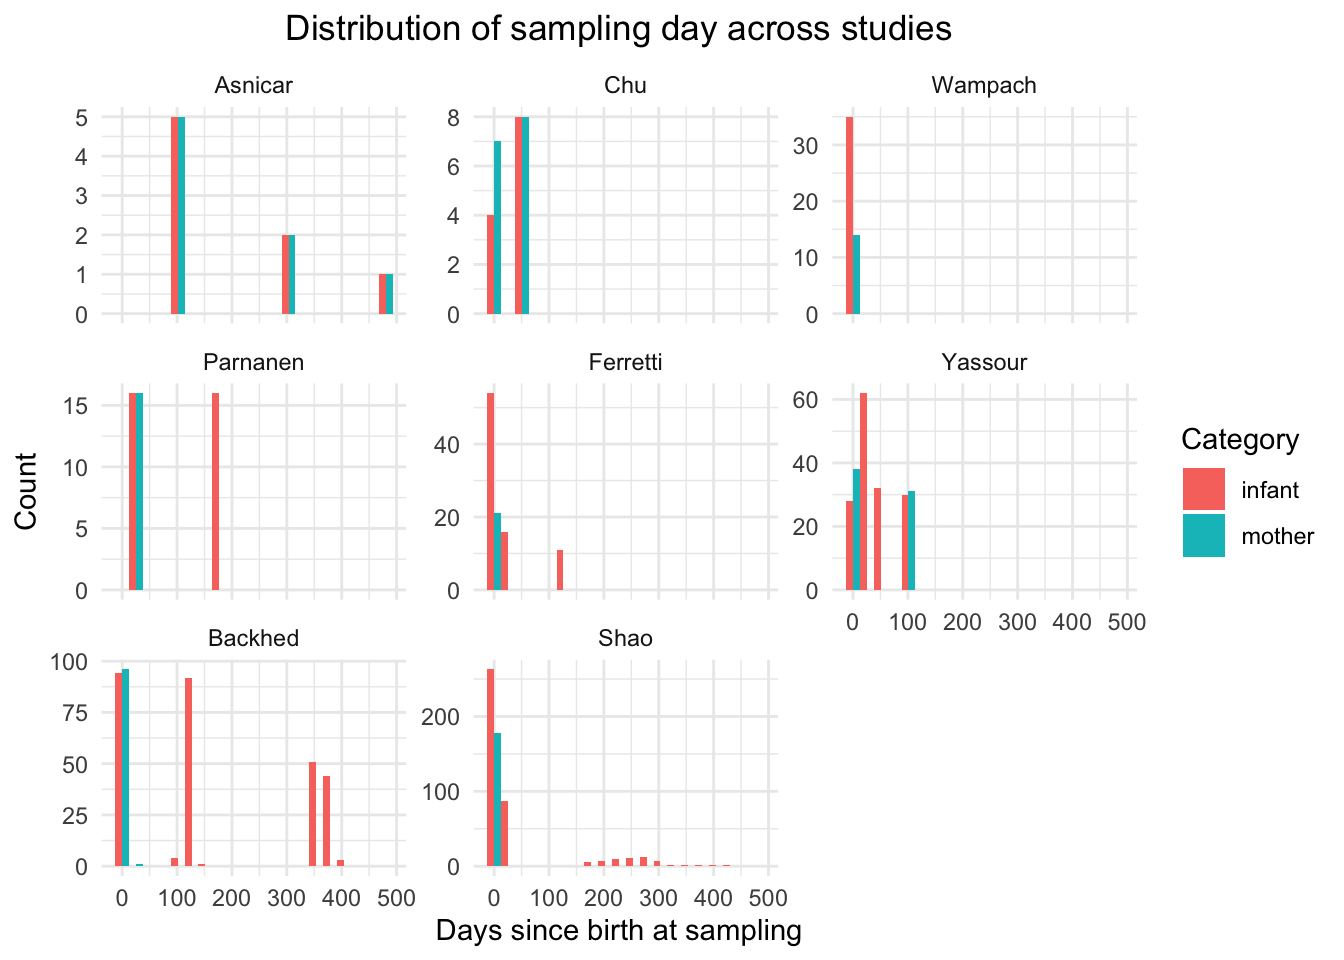
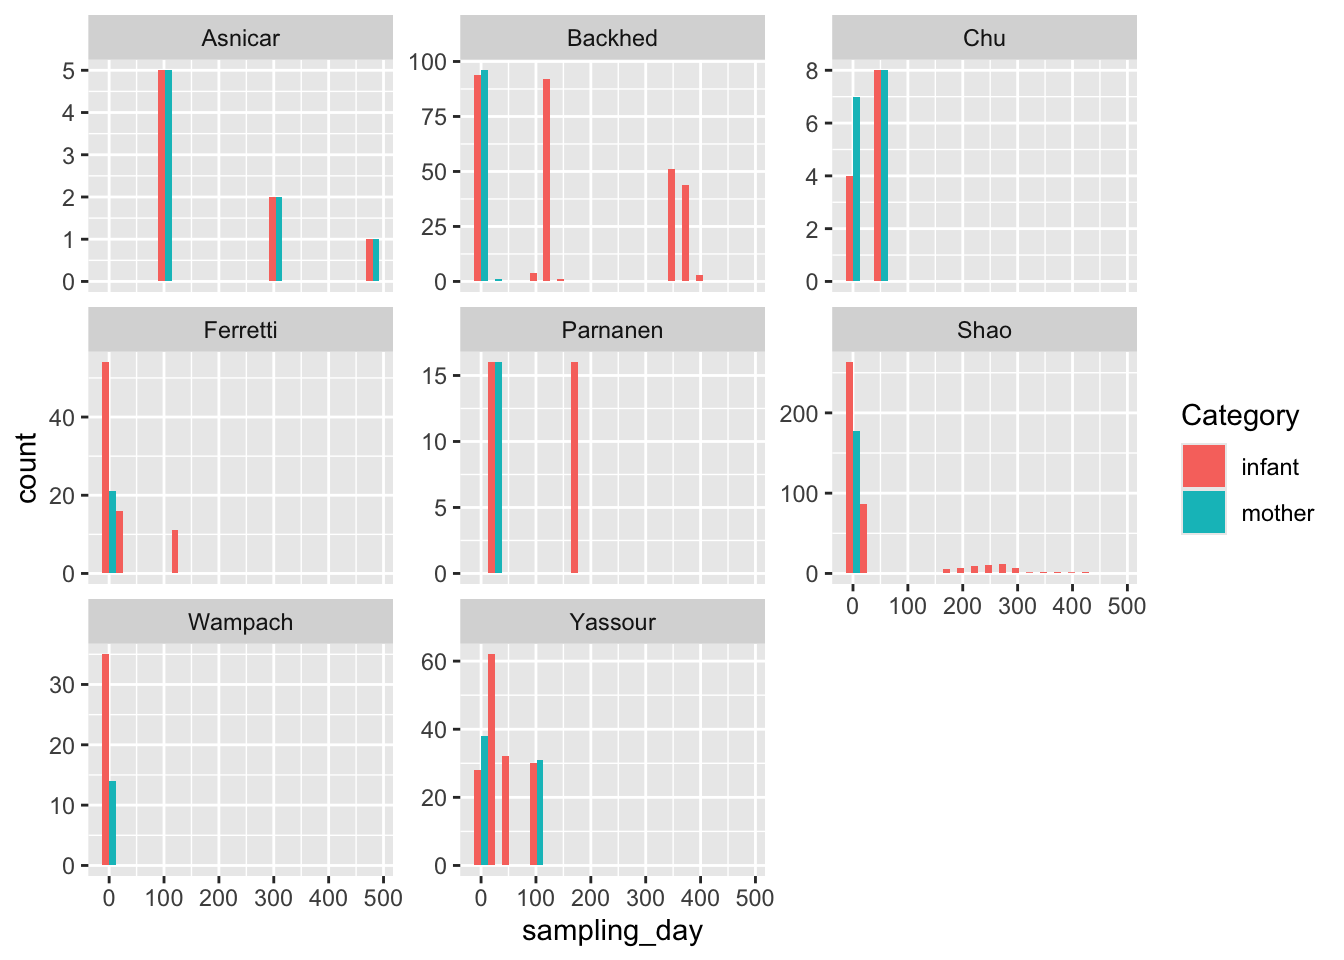
small updates to intro git and github

diff --git a/docs/index.html b/docs/index.html
@@ -194,6 +194,7 @@ gtag('config', 'G-DPKD3JXYG6', { 'anonymize_ip': true});
   <li><a href="#git" id="toc-git" class="nav-link" data-scroll-target="#git">Git</a></li>
   <li><a href="#branches" id="toc-branches" class="nav-link" data-scroll-target="#branches">Branches</a></li>
   <li><a href="#github" id="toc-github" class="nav-link" data-scroll-target="#github">GitHub</a></li>
+  <li><a href="#creating-new-repositories" id="toc-creating-new-repositories" class="nav-link" data-scroll-target="#creating-new-repositories">Creating new repositories</a></li>
   </ul></li>
   <li><a href="#getting-started-with-git-and-github" id="toc-getting-started-with-git-and-github" class="nav-link" data-scroll-target="#getting-started-with-git-and-github">Getting started with Git and GitHub</a>
   <ul class="collapse">
@@ -206,7 +207,7 @@ gtag('config', 'G-DPKD3JXYG6', { 'anonymize_ip': true});
   <li><a href="#what-youve-done" id="toc-what-youve-done" class="nav-link" data-scroll-target="#what-youve-done">What you’ve done</a></li>
   <li><a href="#tips" id="toc-tips" class="nav-link" data-scroll-target="#tips">Tips</a></li>
   </ul></li>
-  <li><a href="#create-github-repository-for-your-project" id="toc-create-github-repository-for-your-project" class="nav-link" data-scroll-target="#create-github-repository-for-your-project">Create GitHub repository for your project</a>
+  <li><a href="#create-version-controlled-repository-for-your-project" id="toc-create-version-controlled-repository-for-your-project" class="nav-link" data-scroll-target="#create-version-controlled-repository-for-your-project">Create version controlled repository for your project</a>
   <ul class="collapse">
   <li><a href="#open-this-project-in-rstudio" id="toc-open-this-project-in-rstudio" class="nav-link" data-scroll-target="#open-this-project-in-rstudio">Open this project in RStudio</a></li>
   </ul></li>
@@ -364,6 +365,15 @@ Images or videos may be helpful so this includes an example of including an imag
 <h1><strong>Motivation</strong></h1>
 <hr>
 <p>In this case study, we ask you to imagine that you are working with a collaborator on a scientific project. You receive the following email, with a request for your help tracking the project using version control and performing a preliminary data analysis. Don’t worry if some of these terms don’t make sense right now, each will be explained later on in the case study.</p>
+<div class="cell">
+<div class="cell-output-display">
+<div>
+<figure class="figure">
+<p><img src="index_files/figure-html//1TEi1D35oiiC21mYR0cKjWuOOpuxm3fTGyCXSqFmjL3I_g3d9461be06f_0_0.png" class="img-fluid figure-img" style="width:100.0%" alt="Motivation email asking for cohort comparison analysis"></p>
+</figure>
+</div>
+</div>
+</div>
 <p><a href="img/version_control_email.png" class="lightbox" data-gallery="quarto-lightbox-gallery-2"><img src="img/version_control_email.png" class="img-fluid" alt="Workflow of the different version control steps in this case study" width="800"></a></p>
 <p>In this case study, you will learn how to use Git and GitHub to track this project and perform the requested comparison of studies used in the meta-analysis. You will also learn how version control can be used to improve reproducibility of a scientific project and how it can make collaboration easier.</p>
 <div class="definition_box">
@@ -549,6 +559,10 @@ Introduction to Git and GitHub (similar to "Dashboard Basics" section in school 
 <li>You have a central location where your data and code are stored for a project that can be shared with other scientists</li>
 </ul>
 </section>
+<section id="creating-new-repositories" class="level3">
+<h3 class="anchored" data-anchor-id="creating-new-repositories">Creating new repositories</h3>
+<p>There are two ways to start new version controlled projects with Git and GitHub. You could create a new repository locally on your computer, track it with Git, and then “push” it to GitHub, creating a remote version of the repo. Or, you could create a new remote repository on GitHub and then “clone” it to your computer, creating a local version. We will provide examples of both workflows in the next section.</p>
+</section>
 </section>
 <section id="getting-started-with-git-and-github" class="level2">
 <h2 class="anchored" data-anchor-id="getting-started-with-git-and-github">Getting started with Git and GitHub</h2>
@@ -634,8 +648,8 @@ Introduction to Git and GitHub (similar to "Dashboard Basics" section in school 
 </ul>
 </section>
 </section>
-<section id="create-github-repository-for-your-project" class="level2">
-<h2 class="anchored" data-anchor-id="create-github-repository-for-your-project">Create GitHub repository for your project</h2>
+<section id="create-version-controlled-repository-for-your-project" class="level2">
+<h2 class="anchored" data-anchor-id="create-version-controlled-repository-for-your-project">Create version controlled repository for your project</h2>
 <p>Now, we will return to the project with Collab. O. Rator. In the previous section, we created a repository on GitHub, and then cloned to make a local copy. Here, we will start with a local folder, track it with Git, and then create a remote version on GitHub.</p>
 <p>First, download the .zip file <a href="https://github.com/opencasestudies/mother-infant-gut-microbiome-analysis-sandbox/raw/refs/heads/main/infant_gut_files.zip">here</a>. Your browser may automatically unzip this file to create a folder called “infant_gut_files”, if not then unzip the file.</p>
 <p>Now, go to GitHub Desktop. Click the button “Add” in the top right, and “Create New Repository”. Give your repository the name “infant_gut_analysis”. Leave the box “Initialize this repository with a README” unchecked (because a README is already included in the set of files). Under Git Ignore choose “R” and under License choose “MIT License”.</p>
@@ -997,7 +1011,7 @@ At the end of this section, save incremental data so that users can pause and co
 <div class="cell-output-display">
 <div>
 <figure class="figure">
-<p><img src="index_files/figure-html/unnamed-chunk-6-1.png" class="img-fluid figure-img" width="672"></p>
+<p><img src="index_files/figure-html/unnamed-chunk-7-1.png" class="img-fluid figure-img" width="672"></p>
 </figure>
 </div>
 </div>
@@ -1021,7 +1035,7 @@ At the end of this section, save incremental data so that users can pause and co
 <div class="cell-output-display">
 <div>
 <figure class="figure">
-<p><img src="index_files/figure-html/unnamed-chunk-7-1.png" class="img-fluid figure-img" width="672"></p>
+<p><img src="index_files/figure-html/unnamed-chunk-8-1.png" class="img-fluid figure-img" width="672"></p>
 </figure>
 </div>
 </div>
@@ -1044,7 +1058,7 @@ At the end of this section, save incremental data so that users can pause and co
 <div class="cell-output-display">
 <div>
 <figure class="figure">
-<p><img src="index_files/figure-html/unnamed-chunk-9-1.png" class="img-fluid figure-img" width="672"></p>
+<p><img src="index_files/figure-html/unnamed-chunk-10-1.png" class="img-fluid figure-img" width="672"></p>
 </figure>
 </div>
 </div>
@@ -1069,7 +1083,7 @@ At the end of this section, save incremental data so that users can pause and co
 <div class="cell-output-display">
 <div>
 <figure class="figure">
-<p><img src="index_files/figure-html/unnamed-chunk-10-1.png" class="img-fluid figure-img" width="672"></p>
+<p><img src="index_files/figure-html/unnamed-chunk-11-1.png" class="img-fluid figure-img" width="672"></p>
 </figure>
 </div>
 </div>
@@ -1262,7 +1276,7 @@ Automatically include the packages table from _packages.qmd?
  collate  en_US.UTF-8
  ctype    en_US.UTF-8
  tz       America/Los_Angeles
- date     2026-04-24
+ date     2026-04-27
  pandoc   3.6.3 @ /Applications/RStudio.app/Contents/Resources/app/quarto/bin/tools/aarch64/ (via rmarkdown)
  quarto   1.8.25 @ /Applications/RStudio.app/Contents/Resources/app/quarto/bin/quarto
 
@@ -1270,7 +1284,9 @@ Automatically include the packages table from _packages.qmd?
  package      * version date (UTC) lib source
  cachem         1.1.0   2024-05-16 [1] CRAN (R 4.5.0)
  cellranger     1.1.0   2016-07-27 [1] CRAN (R 4.5.0)
+ chromote       0.5.1   2025-04-24 [1] CRAN (R 4.5.0)
  cli            3.6.5   2025-04-23 [1] CRAN (R 4.5.0)
+ curl           7.0.0   2025-08-19 [1] CRAN (R 4.5.0)
  devtools       2.4.6   2025-10-03 [1] CRAN (R 4.5.0)
  digest         0.6.39  2025-11-19 [1] CRAN (R 4.5.2)
  dplyr        * 1.2.0   2026-02-03 [1] CRAN (R 4.5.2)
@@ -1281,43 +1297,60 @@ Automatically include the packages table from _packages.qmd?
  fs             1.6.7   2026-03-06 [1] CRAN (R 4.5.2)
  generics       0.1.4   2025-05-09 [1] CRAN (R 4.5.0)
  ggplot2      * 4.0.2   2026-02-03 [1] CRAN (R 4.5.2)
+ gitcreds       0.1.2   2022-09-08 [1] CRAN (R 4.5.0)
  glue           1.8.0   2024-09-30 [1] CRAN (R 4.5.0)
  gtable         0.3.6   2024-10-25 [1] CRAN (R 4.5.0)
  here         * 1.0.2   2025-09-15 [1] CRAN (R 4.5.0)
+ hms            1.1.4   2025-10-17 [1] CRAN (R 4.5.0)
  htmltools      0.5.9   2025-12-04 [1] CRAN (R 4.5.2)
  htmlwidgets    1.6.4   2023-12-06 [1] CRAN (R 4.5.0)
+ httr           1.4.8   2026-02-13 [1] CRAN (R 4.5.2)
  jsonlite       2.0.0   2025-03-27 [1] CRAN (R 4.5.0)
  knitr          1.51    2025-12-20 [1] CRAN (R 4.5.2)
  labeling       0.4.3   2023-08-29 [1] CRAN (R 4.5.0)
+ later          1.4.8   2026-03-05 [1] CRAN (R 4.5.2)
  lifecycle      1.0.5   2026-01-08 [1] CRAN (R 4.5.2)
  magrittr       2.0.4   2025-09-12 [1] CRAN (R 4.5.0)
  memoise        2.0.1   2021-11-26 [1] CRAN (R 4.5.0)
  otel           0.2.0   2025-08-29 [1] CRAN (R 4.5.0)
+ ottrpal        2.0.0   2025-03-31 [1] CRAN (R 4.5.0)
  pillar         1.11.1  2025-09-17 [1] CRAN (R 4.5.0)
  pkgbuild       1.4.8   2025-05-26 [1] CRAN (R 4.5.0)
  pkgconfig      2.0.3   2019-09-22 [1] CRAN (R 4.5.0)
  pkgload        1.5.0   2026-02-03 [1] CRAN (R 4.5.2)
+ processx       3.8.6   2025-02-21 [1] CRAN (R 4.5.0)
+ promises       1.5.0   2025-11-01 [1] CRAN (R 4.5.0)
+ ps             1.9.1   2025-04-12 [1] CRAN (R 4.5.0)
  purrr          1.2.1   2026-01-09 [1] CRAN (R 4.5.2)
  R6             2.6.1   2025-02-15 [1] CRAN (R 4.5.0)
  RColorBrewer   1.1-3   2022-04-03 [1] CRAN (R 4.5.0)
+ Rcpp           1.1.1   2026-01-10 [1] CRAN (R 4.5.2)
+ readr          2.2.0   2026-02-19 [1] CRAN (R 4.5.2)
  readxl       * 1.4.5   2025-03-07 [1] CRAN (R 4.5.0)
  remotes        2.5.0   2024-03-17 [1] CRAN (R 4.5.0)
  rlang          1.1.7   2026-01-09 [1] CRAN (R 4.5.2)
  rmarkdown      2.30    2025-09-28 [1] CRAN (R 4.5.0)
  rprojroot      2.1.1   2025-08-26 [1] CRAN (R 4.5.0)
  rstudioapi     0.18.0  2026-01-16 [1] CRAN (R 4.5.2)
+ rvest          1.0.5   2025-08-29 [1] CRAN (R 4.5.0)
  S7             0.2.1   2025-11-14 [1] CRAN (R 4.5.2)
  scales         1.4.0   2025-04-24 [1] CRAN (R 4.5.0)
  sessioninfo    1.2.3   2025-02-05 [1] CRAN (R 4.5.0)
+ spelling       2.3.2   2025-08-18 [1] CRAN (R 4.5.0)
  stringi        1.8.7   2025-03-27 [1] CRAN (R 4.5.0)
  stringr      * 1.6.0   2025-11-04 [1] CRAN (R 4.5.0)
  tibble         3.3.1   2026-01-11 [1] CRAN (R 4.5.2)
+ tidyr          1.3.2   2025-12-19 [1] CRAN (R 4.5.2)
  tidyselect     1.2.1   2024-03-11 [1] CRAN (R 4.5.0)
+ tzdb           0.5.0   2025-03-15 [1] CRAN (R 4.5.0)
  usethis        3.2.1   2025-09-06 [1] CRAN (R 4.5.0)
  utf8           1.2.6   2025-06-08 [1] CRAN (R 4.5.0)
  vctrs          0.7.2   2026-03-21 [1] CRAN (R 4.5.2)
+ webshot2       0.1.2   2025-04-23 [1] CRAN (R 4.5.0)
+ websocket      1.4.4   2025-04-10 [1] CRAN (R 4.5.0)
  withr          3.0.2   2024-10-28 [1] CRAN (R 4.5.0)
  xfun           0.56    2026-01-18 [1] CRAN (R 4.5.2)
+ xml2           1.5.2   2026-01-17 [1] CRAN (R 4.5.2)
  yaml           2.3.12  2025-12-10 [1] CRAN (R 4.5.2)
 
  [1] /Library/Frameworks/R.framework/Versions/4.5-arm64/Resources/library
